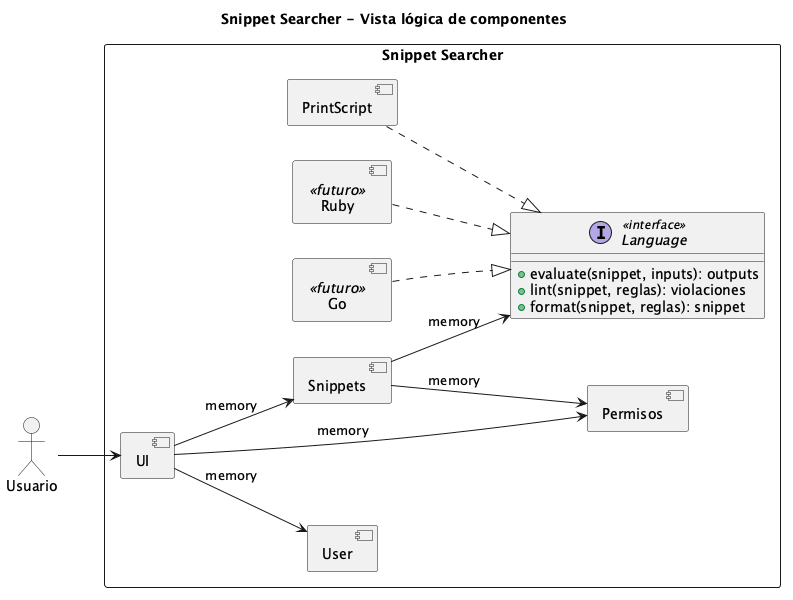
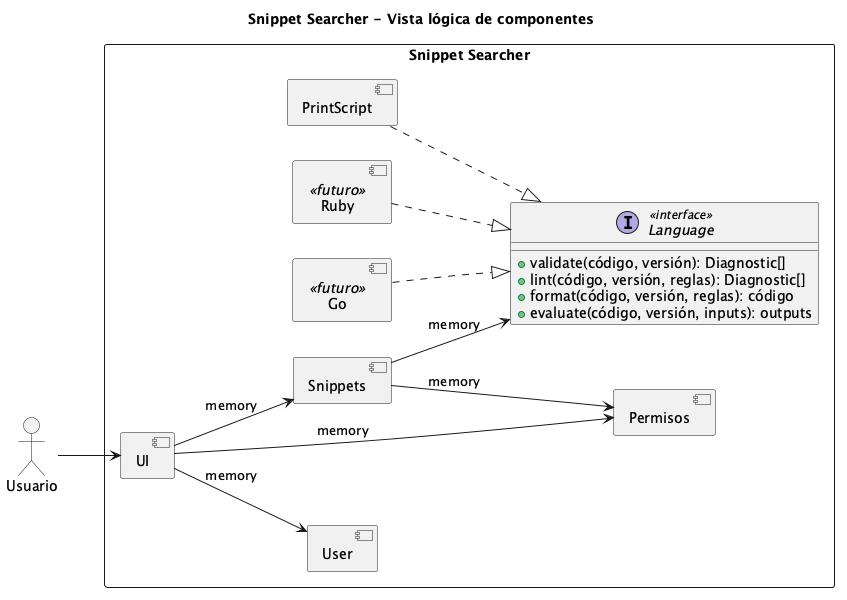
docs: registra decisiones de #14 (Language, Flyway, reglas)
Pasan a Definido: la interfaz Language con validate, que recibe el
código y no el id; Diagnostic con el nombre de la regla; Flyway;
paquetes por tema; reglas por usuario aplicadas con las del owner; y
la versión formateada guardada. Los lenguajes ya no leen el Snippet
Storage, así que se actualizan los dos diagramas.

Refs: #14

diff --git a/README.md b/README.md
@@ -203,7 +203,7 @@ Las conexiones `memory` indican que, a nivel lógico, los módulos se llaman com
 
 ### Vista de despliegue
 ![Vista de despliegue](docs/diagramas/componentes-despliegue.png)
-Cada módulo se despliega como un servicio independiente con API HTTP. Snippets y Permisos tienen **cada uno su propio Postgres**. El **código de los snippets no va a Postgres**: se guarda en un bucket, detrás de la interfaz `Snippet Storage`, y tanto Snippets como los servicios de lenguaje lo leen desde ahí.
+Cada módulo se despliega como un servicio independiente con API HTTP. Snippets y Permisos tienen **cada uno su propio Postgres**. El **código de los snippets no va a Postgres**: se guarda en un bucket, detrás de la interfaz `Snippet Storage`. Solo Snippets lo lee y lo escribe: a los servicios de lenguaje les manda el código en cada pedido.
 
 ## Roles
 Los roles de las user stories describen **puntos de vista**, no permisos distintos en el sistema. Hoy cualquier usuario autenticado puede hacer todo sobre sus propios snippets. La única distinción real que el sistema aplica es **owner vs. usuario con quien se compartió el snippet**.
@@ -227,7 +227,7 @@ Todos los roles son usuarios autenticados con Auth0: no existen usuarios anónim
 | **User** | Expone los usuarios del sistema. Por ejemplo, la búsqueda de usuarios que filtra a medida que se escribe al compartir un snippet (#7). Se apoya en Auth0, no mantiene una tabla de usuarios propia | Auth0 |
 | **Snippets** | Módulo central. Guarda los metadatos del snippet (nombre, descripción, lenguaje, versión, estado de lint), los tests y la configuración de reglas. Orquesta la validación, el lint, el formateo y la ejecución delegándolas en el lenguaje correspondiente | Postgres (snippets) + Snippet Storage |
 | **Permisos** | Decide quién puede hacer qué sobre cada snippet: registra al owner y a los usuarios con quienes se compartió, y responde consultas del tipo "¿este usuario puede leer o escribir este snippet?" | Postgres (permisos) |
-| **Language** (interfaz) | Contrato común que todo lenguaje debe cumplir: `evaluate` (ejecutar), `lint` y `format`. La validación sintáctica ocurre como parte de estas operaciones | — |
+| **Language** (interfaz) | Contrato común que todo lenguaje debe cumplir: `validate` (sintaxis y semántica, sin ejecutar), `lint`, `format` y `evaluate` (ejecutar). Recibe el código del snippet, no su id. Los errores y las reglas incumplidas vuelven como `Diagnostic` | — |
 | **PrintScript** | Implementación de `Language` para PrintScript. Usa la **PrintScript Library** (lexer, parser, intérprete, linter y formatter) | — |
 | **Otros lenguajes** (futuro) | Python, TypeScript, Go, Ruby, etc. Serían nuevas implementaciones de `Language`, desplegadas como servicios iguales a PrintScript | — |
 | **Snippet Storage** (interfaz) / **Bucket Storage** | Guarda y entrega el contenido (código) de los snippets como archivos en un bucket | Bucket |
@@ -244,7 +244,6 @@ Todos los roles son usuarios autenticados con Auth0: no existen usuarios anónim
 | Snippets | Language (PrintScript) | Validar, lintear, formatear y ejecutar el código |
 | Snippets | Snippet Storage | Guardar y leer el contenido del snippet |
 | Snippets, Permisos | Auth0 | Validar el JWT de cada request y obtener el `userId` |
-| PrintScript (y otros lenguajes) | Snippet Storage | Leer el código del snippet a partir de su id, sin que Snippets tenga que mandarlo completo |
 | PrintScript | PrintScript Library | Toda la lógica del lenguaje |
 
 Reglas de diseño que salen de estas dependencias:
@@ -286,7 +285,14 @@ Fuente de verdad sobre qué está decidido. Lo que figura como **Pendiente** no 
 | Contrato con la UI de la cátedra | ⏳ Pendiente | La UI se conecta al backend con nuestra implementación de `src/utils/snippetOperations.ts`. Falta definir los endpoints y DTOs que salen de esa interfaz (#14) |
 | Snippet Storage (bucket) | ⏳ Pendiente | Si lo provee la cátedra o se implementa |
 | Base de datos | ✅ Definido | **PostgreSQL 17, un contenedor por servicio** (`snippets` y `permisos`). Ningún servicio accede a la base de otro |
-| Migraciones | ⏳ Pendiente | Herramienta a definir (por ejemplo Flyway). Mientras tanto, `ddl-auto: none` |
+| Migraciones | ✅ Definido | **Flyway**. Cada cambio de esquema es un archivo SQL numerado en `src/main/resources/db/migration` (`V1__crear_snippets.sql`, `V2__…`). Spring Boot los aplica en orden al arrancar y recuerda cuáles ya corrió. Se mantiene `ddl-auto: none`: Hibernate no toca el esquema |
+| Interfaz `Language` | ✅ Definido | Cuatro operaciones: `validate` (revisa sintaxis y semántica sin ejecutar), `lint`, `format` y `evaluate` (ejecutar). Reciben **el código**, nunca el id del snippet: así se puede validar antes de guardar, y los servicios de lenguaje no conocen el Snippet Storage. `validate` y `lint` devuelven una lista de `Diagnostic`. Ver [Módulos](#módulos) |
+| `Diagnostic` | ✅ Definido | Un problema en el código, igual para todos los lenguajes. Tiene **el nombre de la regla incumplida** (lo pide la US-1), un mensaje y un `Range`: línea y columna de inicio y de fin. Cada servicio de lenguaje traduce los errores de su librería a este formato. En PrintScript, el nombre de la regla sale de un **código de regla** que se pide agregar a `Failure` y `Violation` en la librería; no se deduce del texto del mensaje, porque cambiaría sin aviso si cambia el mensaje |
+| Organización del código | ✅ Definido | **Paquetes por tema**, no por tipo. Snippet Service: `snippet/`, `testcase/`, `rules/`, `clients/`. Permission Service: `permission/`, `security/`. La arquitectura de servicios no cambia |
+| Reglas de lint y formateo | ✅ Definido | **Cada usuario tiene su configuración.** Un snippet se lintea y se formatea con las reglas de su owner. Un usuario con quien se compartió ve ese mismo resultado, así que cada snippet tiene un solo estado de lint |
+| Versión formateada (US-13) | ✅ Definido | **Se guarda.** El formateo en segundo plano (US-12) guarda el resultado como un segundo archivo en el Snippet Storage; el original no se toca. La descarga lee uno o el otro |
+| Auth0 | ⏳ Pendiente | Crear el tenant, la app de la UI y la API. Queda para más adelante |
+| Módulo User | ⏳ Pendiente | En qué servicio vive la búsqueda de usuarios (US-7). Se consulta con la cátedra |
 | Framework de tests | ✅ Definido | **JUnit 5**, con los starters de test de Spring Boot (lo que genera Spring Initializr). Los tests necesitan la base levantada. Ver [Correr los tests](#correr-los-tests) |
 | Linter y cobertura | ⏳ Pendiente | Linter y cobertura mínima |
 | Cola de mensajes | ⏳ Pendiente | La cátedra la explica más adelante (#12, #15) |
